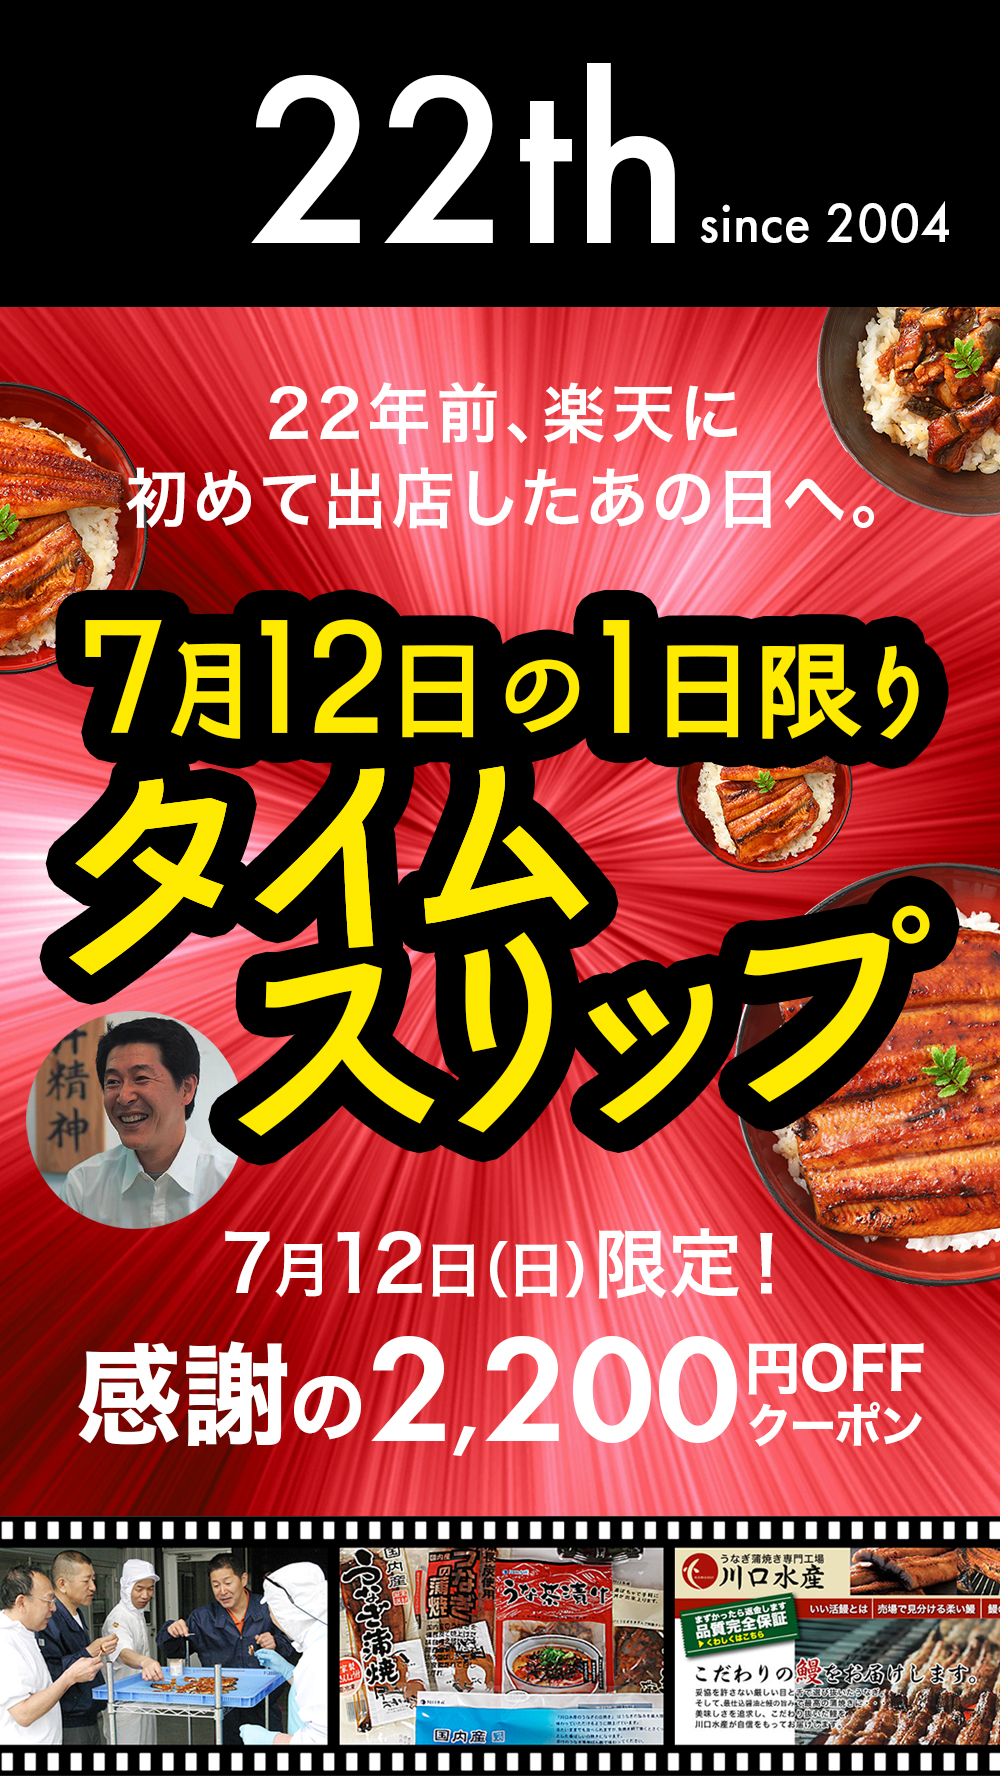
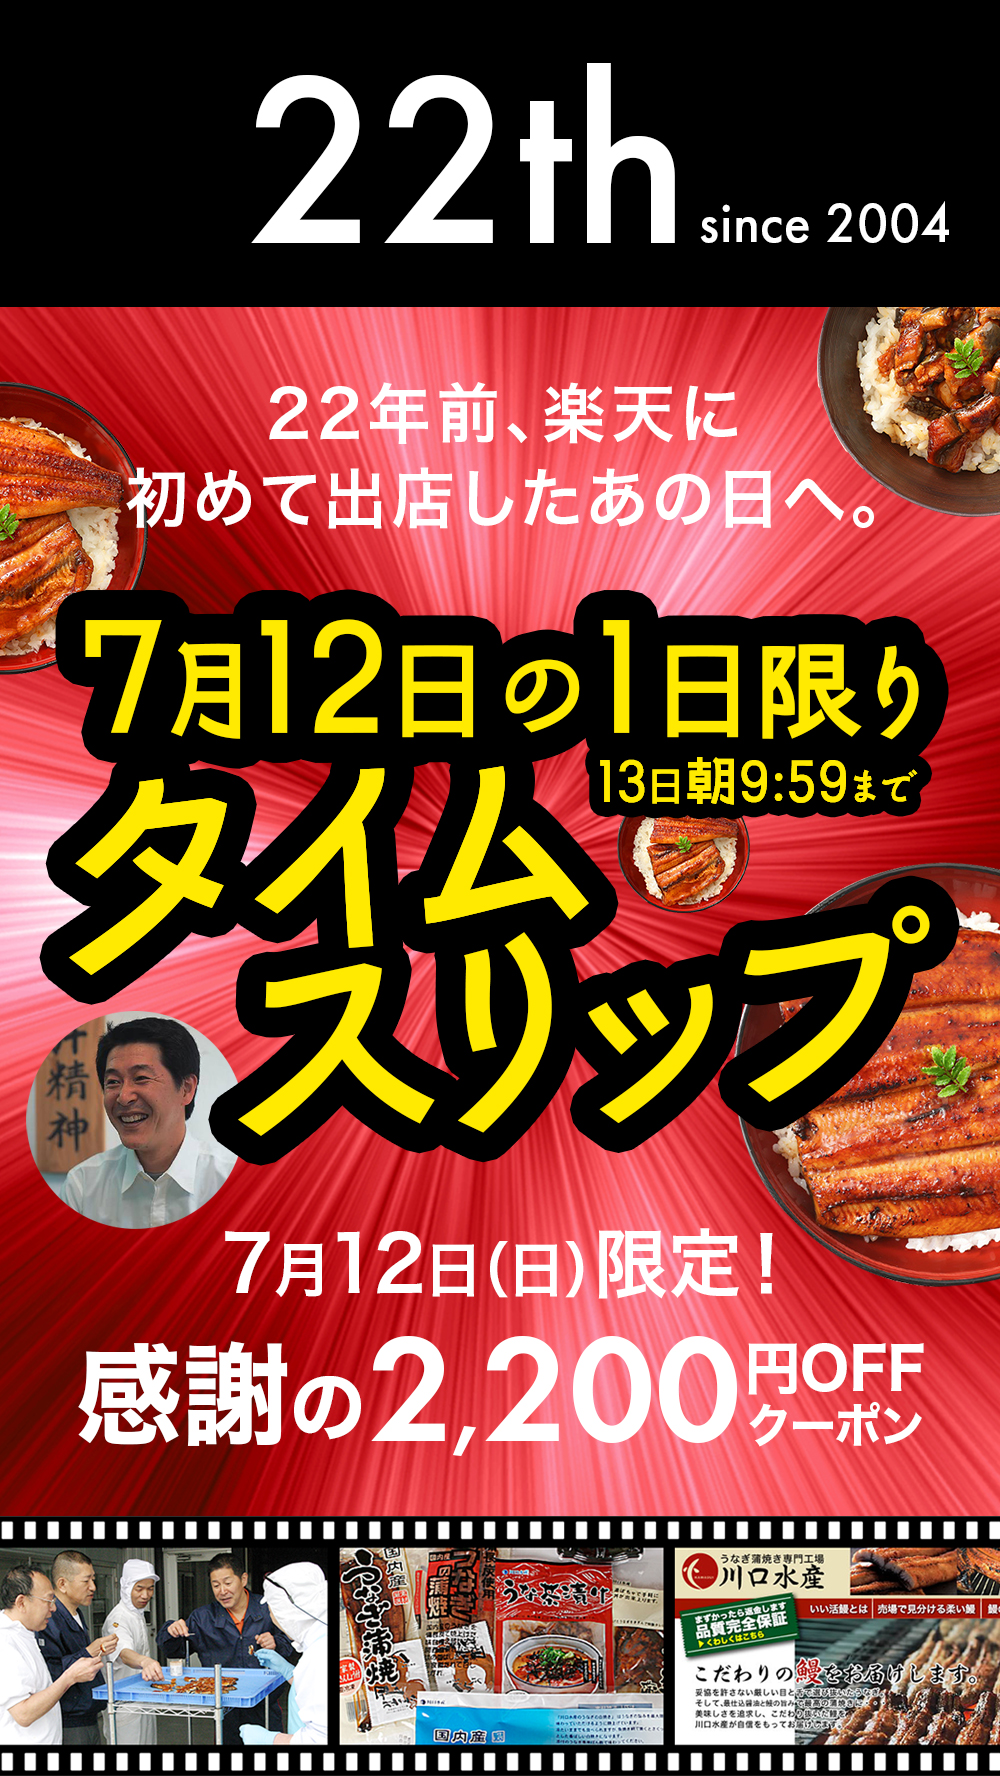
feat: update kanban/history images, enlarge product block with confetti
- Replace hero-kanban-pc.jpg / hero-kanban-sp.jpg and history.jpg with
  the revised (2) versions provided (adds 13日朝9:59まで detail to FV)
- Make the 対象商品エリア product section more prominent: gold/red
  gradient background, larger heading, larger product card/text/CTA
- Add a falling gold confetti + ribbon effect over that section via a
  small JS-generated set of animated pieces (CSS keyframe fall+rotate,
  per user's earlier go-ahead to use JS)

Changed region(s): [[0.589, 0.4026, 0.93, 0.5265]]

diff --git a/index.html b/index.html
@@ -239,56 +239,68 @@ a.kw-cta:active{ opacity:.8; }
   margin-top:4px;
 }
 
-/* ---------- 6. 対象商品エリア ---------- */
+/* ---------- 6. 対象商品エリア(最も目立たせたいブロック) ---------- */
+.kw-product-section{
+  position:relative;
+  overflow:hidden;
+  background:linear-gradient(160deg, var(--gold-light) 0%, var(--gold) 55%, var(--red-main) 130%);
+}
+.kw-product-section .kw-section-title{
+  font-size:30px;
+  color:var(--red-deep);
+  text-shadow:0 2px 0 rgba(255,255,255,.5);
+}
 .kw-product-grid{
   display:flex;
   justify-content:center;
   margin-top:24px;
+  position:relative;
+  z-index:2;
 }
 .kw-product-card{
   background:#fff;
-  border:1px solid var(--line);
-  border-radius:10px;
+  border:3px solid var(--gold);
+  border-radius:14px;
   overflow:hidden;
-  box-shadow:0 3px 8px rgba(0,0,0,.06);
+  box-shadow:0 10px 24px rgba(0,0,0,.25);
   display:flex;
   flex-direction:column;
   width:100%;
-  max-width:360px;
+  max-width:420px;
 }
 .kw-product-card img{ border-bottom:3px solid var(--gold); }
-.kw-product-body{ padding:12px; flex:1; display:flex; flex-direction:column; }
+.kw-product-body{ padding:18px; flex:1; display:flex; flex-direction:column; }
 .kw-product-name{
-  font-size:14px;
+  font-size:19px;
   font-weight:bold;
-  margin:0 0 8px;
+  margin:0 0 10px;
   min-height:2.4em;
 }
 .kw-product-desc{
-  font-size:12px;
+  font-size:14px;
   color:#666;
-  margin:0 0 10px;
+  margin:0 0 12px;
   flex:1;
 }
 .kw-price-normal{
-  font-size:12px;
+  font-size:14px;
   color:#999;
   text-decoration:line-through;
   margin:0;
 }
 .kw-price-coupon{
-  font-size:16px;
+  font-size:22px;
   color:var(--red-main);
   font-weight:bold;
-  margin:0 0 10px;
+  margin:0 0 14px;
 }
 .kw-price-coupon .kw-price-off{
   display:inline-block;
   background:var(--gold);
   color:var(--red-deep);
-  font-size:10px;
+  font-size:12px;
   font-weight:bold;
-  padding:2px 6px;
+  padding:3px 8px;
   border-radius:10px;
   margin-left:4px;
   vertical-align:middle;
@@ -297,10 +309,36 @@ a.kw-cta:active{ opacity:.8; }
   display:block;
   background:var(--red-main);
   color:#fff;
-  font-size:13px;
-  padding:10px;
+  font-size:16px;
+  padding:14px;
   border-radius:30px;
   margin-top:auto;
+}
+
+/* ---------- 対象商品エリアの金の紙吹雪・リボン演出(JS使用、下部scriptで生成) ---------- */
+.kw-confetti{
+  position:absolute;
+  top:0; left:0;
+  width:100%; height:100%;
+  overflow:hidden;
+  pointer-events:none;
+  z-index:1;
+}
+.kw-confetti-piece{
+  position:absolute;
+  top:-40px;
+  opacity:.9;
+  animation-name:kw-confetti-fall;
+  animation-timing-function:linear;
+  animation-iteration-count:infinite;
+}
+.kw-confetti-piece.is-ribbon{
+  border-radius:2px;
+}
+@keyframes kw-confetti-fall{
+  0%{ transform:translate(0,0) rotate(0deg); }
+  50%{ transform:translate(var(--kw-drift,10px),55%) rotate(180deg); }
+  100%{ transform:translate(0,115%) rotate(360deg); }
 }
 
 /* ---------- 7. 22年前と今 ---------- */
@@ -576,7 +614,8 @@ a.kw-cta:active{ opacity:.8; }
   <!-- ============================================================
        6. 対象商品エリア
        ============================================================ -->
-  <section class="kw-section kw-section-white">
+  <section class="kw-section kw-product-section">
+    <div class="kw-confetti" aria-hidden="true"></div>
     <div class="kw-inner">
       <h2 class="kw-section-title">22周年の感謝を込めた<br>対象商品はこちら</h2>
 
@@ -717,6 +756,45 @@ a.kw-cta:active{ opacity:.8; }
     playShine();
     scheduleNext();
   }, 700 + Math.random() * 600);
+})();
+</script>
+
+<!-- 対象商品エリアに金の紙吹雪・リボンを降らせる(ユーザー了承のうえJS使用) -->
+<script>
+(function(){
+  var container = document.querySelector('.kw-confetti');
+  if(!container){ return; }
+
+  var colors = ['#d4af37', '#f4e3a1', '#fff6d8', '#c8102e'];
+  var pieceCount = 26;
+
+  for (var i = 0; i < pieceCount; i++) {
+    var piece = document.createElement('span');
+    piece.className = 'kw-confetti-piece';
+
+    var isRibbon = Math.random() < 0.3;
+    var color = colors[Math.floor(Math.random() * colors.length)];
+    var left = Math.random() * 100;
+    var duration = 4 + Math.random() * 4; // 4秒〜8秒で落下
+    var delay = Math.random() * -8; // マイナス遅延で開始時点から降っている状態にする
+    var drift = (Math.random() * 40 - 20); // 左右にわずかに流れるブレ幅
+
+    if (isRibbon) {
+      piece.classList.add('is-ribbon');
+      piece.style.width = (4 + Math.random() * 2) + 'px';
+      piece.style.height = (16 + Math.random() * 10) + 'px';
+    } else {
+      piece.style.width = piece.style.height = (6 + Math.random() * 6) + 'px';
+    }
+
+    piece.style.left = left + '%';
+    piece.style.background = color;
+    piece.style.animationDuration = duration + 's';
+    piece.style.animationDelay = delay + 's';
+    piece.style.setProperty('--kw-drift', drift + 'px');
+
+    container.appendChild(piece);
+  }
 })();
 </script>
 </body>

diff --git a/README.md b/README.md
@@ -54,7 +54,9 @@ scripts/
 
 ## 実装方針
 
-- 基本はJavaScript不使用(楽天GOLD/商品ページでの利用を想定し、HTML/CSSのみで構成)。ただしFV看板画像のシャインエフェクトのみ、ランダムな間隔で自然に光らせるためbody末尾の<script>でJSを使用しています。JSが実行できない環境でもシャインが出ないだけでレイアウトは崩れません
+- 基本はJavaScript不使用(楽天GOLD/商品ページでの利用を想定し、HTML/CSSのみで構成)。ただし以下2箇所のみ、body末尾の<script>でJSを使用しています。JSが実行できない環境でも該当の演出が出ないだけでレイアウトは崩れません
+  - FV看板画像のシャインエフェクト(ランダムな間隔で自然に光らせる)
+  - 対象商品エリアの金の紙吹雪・リボン演出(ページ読み込み時に生成)
 - CSSは `index.html` の `<style>` 内にまとめています
 - スマホ表示を基準に作成し、768px以上でPC向けレイアウトに切り替わります(メディアクエリ)
 - スマホ追従CTAバーは `position: sticky` のみで実装(JS不使用)